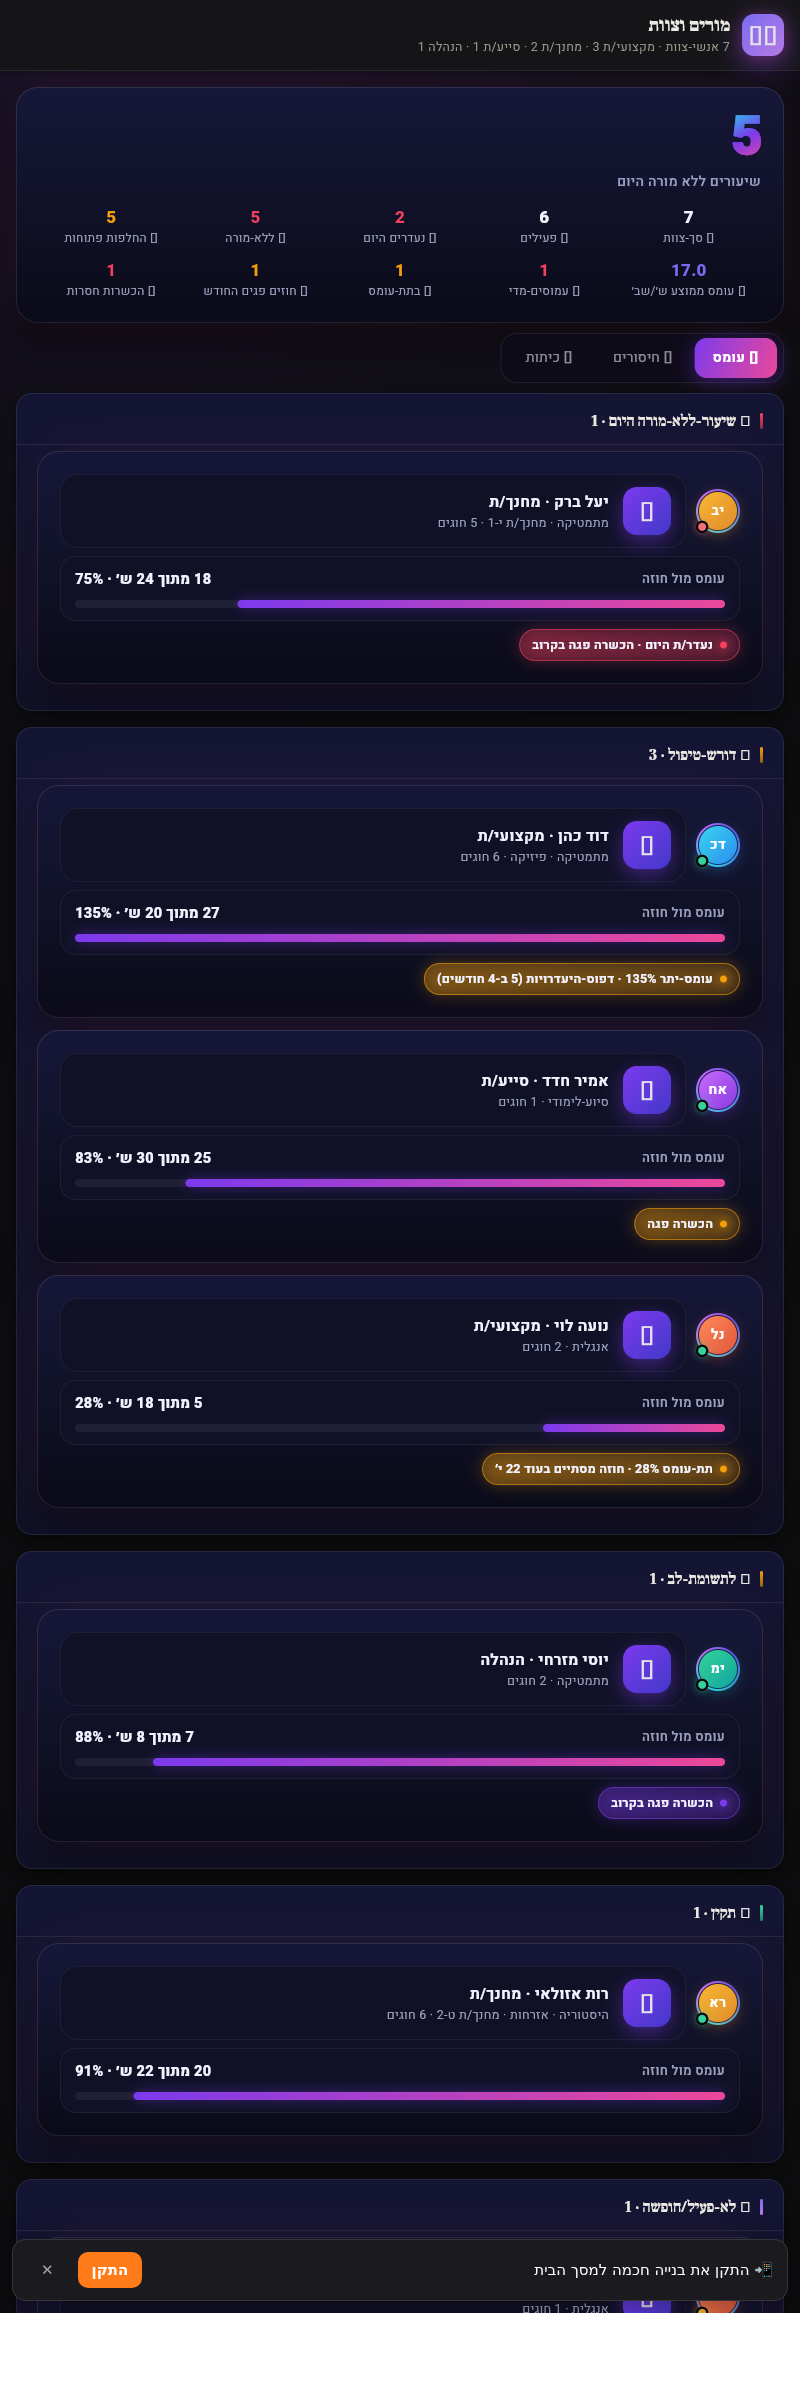
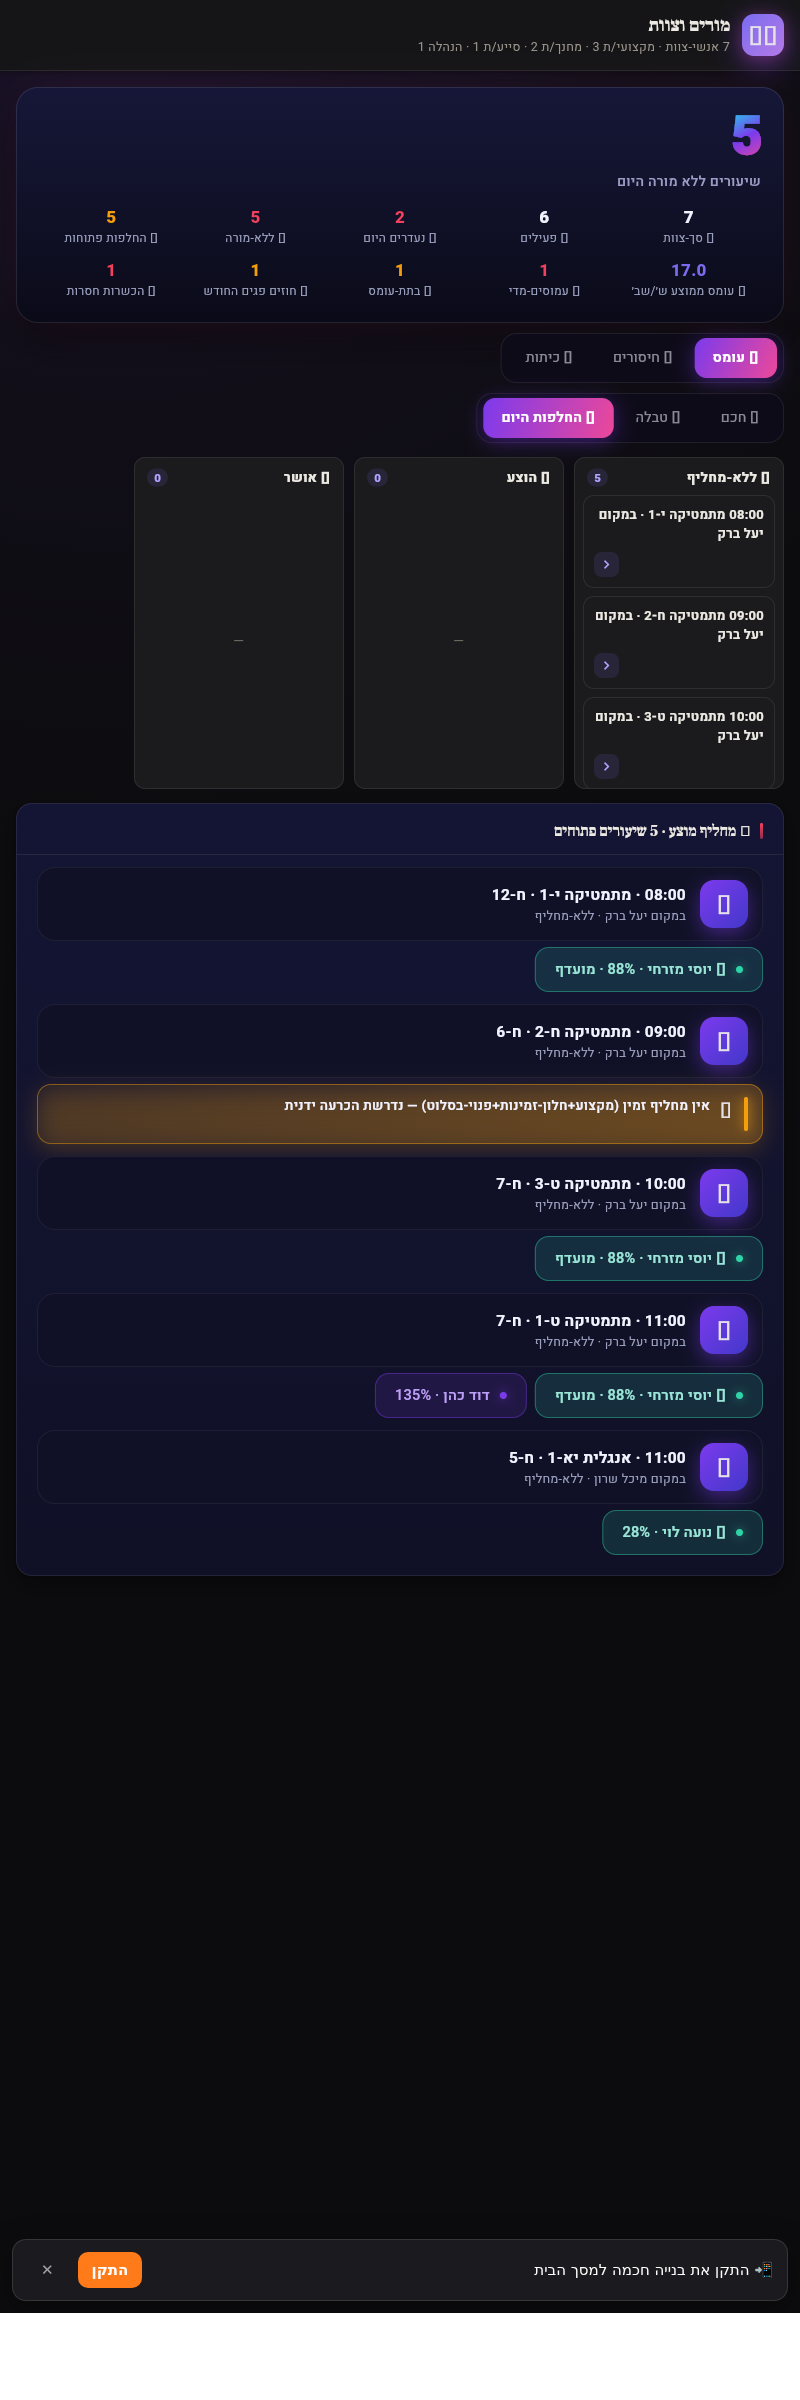
גל 2 · מורים · טבלה-חוזה (16 עמודות · מקום-שמור) + לוח-החלפות-היום + מחליף-מוצע — DsTable⊕columnDefs · DsBoard⊕candidates(scheduleClashText-סלוט⊕availableAt[timeToMin]⊕loadPct⊕preferredSub)⊕taskOverdue · SegmentedSwitch⊕MediaRow⊕SoftButton⊕AlertBanner⊕EmptyState
Claude-Session: https://claude.ai/code/session_01BqAjnyL3FXR2gDLpy5PnRZ

Protocol-Ran: 665fe583e5dd8e0b

diff --git a/new/dart-gen-bs/schoolos_teachers.dart b/new/dart-gen-bs/schoolos_teachers.dart
@@ -268,7 +268,9 @@ class _TeamData {
     final c = courseById(sub['courseId'] as String)!;
     final absent = byId(sub['absentId'] as String)!;
     final time = '${sub['time'] ?? slotOf(c, todayWd)}';
-    final list = roster.where((t) => isActive(t) && t['id'] != absent['id'] && !absentToday(t) && subjects(t).contains(c['subject']) && availableAt(t, todayWd, time) && clashOf(t, c) == null).toList();
+    // החלפה-ליום-אחד ⇒ ההתנגשות נבדקת מול הסלוט-של-היום בלבד (מבט-חוג מצומצם מוזרק למנוע); ההקצאה-הקבועה בודקת את כל השבוע.
+    final slot = <String, dynamic>{...c, 'sessions': [{'day': todayWd, 'time': time}]};
+    final list = roster.where((t) => isActive(t) && t['id'] != absent['id'] && !absentToday(t) && subjects(t).contains(c['subject']) && availableAt(t, todayWd, time) && clashOf(t, slot) == null).toList();
     list.sort((a, b) { // מועדף ראשון, אחר-כך עומס עולה
       final pa = absent['preferredSub'] == a['id'] ? 0 : 1, pb = absent['preferredSub'] == b['id'] ? 0 : 1;
       return pa != pb ? pa - pb : loadPct(a).compareTo(loadPct(b));
@@ -306,6 +308,32 @@ class _TeamData {
   static int get certsN => active.where(certMissing).length;
   static List<List<Object>> get byRole => countBy(staff, (t) => roleLabel[(t as Map)['role']] ?? '${t['role']}'); // מדף
 
+  // ═══ חוזה-עמודות · מקום-שמור (חוק-7 · מבחן-הקונכייה) — 16 עמודות-המפרט כשקעי-דאטה ═══
+  //   נגזרת(get)=תמיד-מוצגת · שדה(key)=מוארת רק כשרשומה נושאת ערך, חסר ⇒ שקט. photo/contact/classAttendance/updatedAt
+  //   אין להם מקור-אמת/מוזרקים-בהצבה (חוק-6) ⇒ מקום-שמור: הזרקת-שדה ⇒ העמודה מאירה לבד, אפס-שינוי-קוד.
+  static final List<Map<String, Object?>> columnDefs = <Map<String, Object?>>[
+    {'key': 'photo', 'label': 'תמונה'},                                                                  // מקום-שמור (WorkerCert.photo)
+    {'label': 'שם', 'get': (Map<String, dynamic> t) => '${t['name']}'},
+    {'label': 'תפקיד', 'get': (Map<String, dynamic> t) => roleLabel[t['role']] ?? '${t['role']}'},
+    {'label': 'מקצועות', 'get': (Map<String, dynamic> t) => subjects(t).join('·')},
+    {'label': 'כיתות-מחנך', 'get': (Map<String, dynamic> t) => (t['homeroom'] as List).isEmpty ? '—' : (t['homeroom'] as List).join('·')},
+    {'label': 'ש׳/שבוע', 'get': (Map<String, dynamic> t) => '${hoursWeek(t).round()}/${contractHours(t)}'},
+    {'label': 'עומס%', 'get': (Map<String, dynamic> t) => '${loadPct(t)}%'},
+    {'label': 'חוגים', 'get': (Map<String, dynamic> t) => '${coursesOf(t).length}'},
+    {'label': 'נוכח-היום', 'get': (Map<String, dynamic> t) => absentToday(t) ? '✗ נעדר' : presentToday(t) ? '✓' : '—'},
+    {'label': 'היעדרויות-החודש', 'get': (Map<String, dynamic> t) => '${absencesMonth(t)}'},
+    {'label': 'החלפות-שביצע', 'get': (Map<String, dynamic> t) => '${subsDone(t)}'},
+    {'key': 'classAttendance', 'label': 'דירוג-נוכחות-כיתותיו'},                                       // מקום-שמור (מודול-נוכחות)
+    {'label': 'ותק', 'get': (Map<String, dynamic> t) => '${tenure(t) ?? '—'} ש׳'},
+    {'label': 'סטטוס', 'get': (Map<String, dynamic> t) => statusLabel[statusOf(t)] ?? statusOf(t)},
+    {'key': 'contact', 'label': 'קשר'},                                                                 // מקום-שמור · חוק-6 (מוזרק · מוסתר-פר-הרשאה)
+    {'key': 'updatedAt', 'label': 'עדכון'},                                                             // מקום-שמור
+  ];
+  static bool colShown(Map<String, Object?> c, List<Map<String, dynamic>> rows) =>
+      c['get'] != null || rows.any((t) => t[c['key']] != null && '${t[c['key']]}'.trim().isNotEmpty);
+  static String cell(Map<String, Object?> c, Map<String, dynamic> t) =>
+      c['get'] != null ? (c['get'] as String Function(Map<String, dynamic>))(t) : '${t[c['key']] ?? '—'}';
+
   // ─── פנקס-פעולות (מצב=חיווט · הבסיס const נשאר מקור-האמת) ───
   static final Map<String, String> statusOverride = {};
   static String statusOf(Map<String, dynamic> t) => statusOverride[t['id']] ?? (t['status'] as String);
@@ -340,17 +368,21 @@ class _TeamData {
 
 // ═══════════ המסך · מחלקה ציבורית יחידה (const · ללא main) ═══════════
 class TeachersScreen extends StatefulWidget {
-  const TeachersScreen({super.key});
+  const TeachersScreen({super.key, this.initialMode = 0}); // initialMode = שקע-הזרקה (תצוגה-מקדימה/בדיקה): 0 חכם · 1 טבלה · 2 החלפות
+  final int initialMode;
   @override
   State<TeachersScreen> createState() => _TeachersScreenState();
 }
 
 class _TeachersScreenState extends State<TeachersScreen> {
   int _sort = 0; // 0=⚖ עומס · 1=🤒 חיסורים · 2=🏫 כיתות
+  int _mode = 0; // 0=🎯 חכם (טריאז') · 1=📋 טבלה (DsTable כל-העמודות) · 2=🔁 לוח-החלפות-היום (DsBoard)
+  static const _who = 'הנהלה'; // זהות-הפועל (חוק-6 — מוזרק בגל 5 מהתפקיד)
 
   @override
   void initState() {
     super.initState();
+    _mode = widget.initialMode;
     _TeamData.syncUncovered(); // אוטומציה: היעדרויות-של-היום ⇒ שיעורים-ללא-מורה
   }
 
@@ -410,16 +442,86 @@ class _TeachersScreenState extends State<TeachersScreen> {
           child: SegmentedSwitch(items: const ['⚖ עומס', '🤒 חיסורים', '🏫 כיתות'], selected: _sort, onSelect: (i) => setState(() => _sort = i)),
         ),
         const SizedBox(height: 10),
-        for (final st in const [3, 2, 1, 0, -1])
-          if (buckets[st]!.isNotEmpty)
-            DsSection(title: '${secTitle[st]} · ${buckets[st]!.length}', tone: secTone[st]!, children: [
-              for (final t in buckets[st]!) _row(t),
-            ]),
+        // בורר-מבט (SegmentedSwitch מבוקר): 🎯 חכם (טריאז'-החלטה) · 📋 טבלה (חוזה-עמודות) · 🔁 לוח-החלפות-היום
+        Align(
+          alignment: Alignment.centerRight,
+          child: SegmentedSwitch(items: const ['🎯 חכם', '📋 טבלה', '🔁 החלפות היום'], selected: _mode, onSelect: (i) => setState(() => _mode = i)),
+        ),
+        const SizedBox(height: 10),
+        if (_mode == 2)
+          _subsBoard()
+        else if (_mode == 1)
+          _table(ranked)
+        else
+          for (final st in const [3, 2, 1, 0, -1])
+            if (buckets[st]!.isNotEmpty)
+              DsSection(title: '${secTitle[st]} · ${buckets[st]!.length}', tone: secTone[st]!, children: [
+                for (final t in buckets[st]!) _row(t),
+              ]),
       ],
     );
   }
 
   Widget _gap([double h = 10]) => SizedBox(height: h);
+
+  // 📋 מבט-טבלה: DsTable מונחה-חוזה (columnDefs · מקום-שמור חוק-7). אפס-DataGrid (מזייף int rows).
+  Widget _table(List<Map<String, dynamic>> rows) {
+    final cols = [for (final c in _TeamData.columnDefs) if (_TeamData.colShown(c, rows)) c];
+    return DsTable(labels: [for (final c in cols) c['label'] as String], rows: [for (final t in rows) [for (final c in cols) _TeamData.cell(c, t)]]);
+  }
+
+  // 🔁 לוח-החלפות-היום (זיהוי-חריגה ⇒ הכרעה ⇒ ביצוע): DsBoard (תפר-דאטה: stages+records+onMove) ⊕ candidates
+  //   (זמין ∧ מקצוע ∧ פנוי-בסלוט[scheduleClashText] ∧ עומס-נמוך ∧ מועדף) ⊕ taskOverdue (החלפה שעבר מועדה).
+  Widget _subsBoard() {
+    final today = _TeamData.todaySubs;
+    final open = _TeamData.uncoveredToday;
+    final overdue = _TeamData.subs.where((s) => _TeamData.subOverdue(s)).length;
+    return Column(crossAxisAlignment: CrossAxisAlignment.stretch, children: [
+      if (today.isEmpty)
+        const EmptyState(glyph: '🎉', message: 'אין החלפות להיום — כל השיעורים מכוסים')
+      else ...[
+        DsBoard(
+          stages: const ['🔴 ללא-מחליף', '🟠 הוצע', '✅ אושר'],
+          records: [for (final s in today) {'id': '${s['id']}', 'title': '${s['time'] ?? ''} ${_TeamData.courseById(s['courseId'] as String)?['name']} · במקום ${_TeamData.nameOf(s['absentId'] as String)}${s['subId'] != null ? ' ⇐ ${_TeamData.nameOf(s['subId'] as String)}' : ''}', 'stage': '${s['stage']}'}],
+          stageOf: (r) => int.parse(r['stage']!),
+          titleOf: (r) => r['title']!,
+          onMove: (id, to) => setState(() => _TeamData.moveSub(id, to, _who)),
+        ),
+        if (overdue > 0) ...[_gap(8), AlertBanner(glyph: '⏰', tone: 2, message: '$overdue החלפות פתוחות שעבר מועדן')],
+        _gap(10),
+        // הצעת-מחליף אוטומטית פר-שיעור-פתוח: המועמד-הראשון = מועדף/עומס-נמוך; אין ⇒ אמת (לא מזייפים מחליף)
+        DsSection(title: '🧭 מחליף מוצע · ${open.length} שיעורים פתוחים', tone: open.isEmpty ? 1 : 2, children: [
+          if (open.isEmpty) const EmptyState(glyph: '✅', message: 'כל שיעורי-היום מכוסים')
+          else for (final s in open) _subRow(s),
+        ]),
+      ],
+    ]);
+  }
+
+  Widget _subRow(Map<String, dynamic> s) {
+    final c = _TeamData.courseById(s['courseId'] as String)!;
+    final cands = _TeamData.candidates(s);
+    final chosen = s['subId'] == null ? null : _TeamData.byId(s['subId'] as String);
+    return Padding(
+      padding: const EdgeInsets.symmetric(vertical: 6),
+      child: Column(crossAxisAlignment: CrossAxisAlignment.stretch, children: [
+        MediaRow(glyph: '🚨', title: '${s['time'] ?? ''} · ${c['name']} · ${c['roomId']}', subtitle: 'במקום ${_TeamData.nameOf(s['absentId'] as String)} · ${s['stage'] == 1 ? 'הוצע: ${chosen?['name']}' : 'ללא-מחליף'}'),
+        _gap(6),
+        if (cands.isEmpty)
+          const AlertBanner(glyph: '⚠', tone: 3, message: 'אין מחליף זמין (מקצוע+חלון-זמינות+פנוי-בסלוט) — נדרשת הכרעה ידנית')
+        else
+          Wrap(spacing: 8, runSpacing: 6, children: [
+            for (final t in cands.take(3))
+              SoftButton(
+                label: '${t == cands.first ? '⭐ ' : ''}${t['name']} · ${_TeamData.loadPct(t)}%${(_TeamData.byId(s['absentId'] as String)?['preferredSub']) == t['id'] ? ' · מועדף' : ''}',
+                tone: t == cands.first ? 1 : 0,
+                onTap: () => setState(() => _TeamData.propose(s, t, _who)),
+              ),
+            if (s['stage'] == 1) SoftButton(label: '✅ אשר-החלפה', tone: 1, onTap: () => setState(() => _TeamData.moveSub(s['id'] as String, 2, _who))),
+          ]),
+      ]),
+    );
+  }
 
   // שורת-מורה: זהות (PremiumAvatar ראשי-תיבות + נקודת-מצב) · תפקיד+כיתות · עומס מול חוזה (StatRow יחס) · סיבת-הדחיפות
   Widget _row(Map<String, dynamic> t) {
